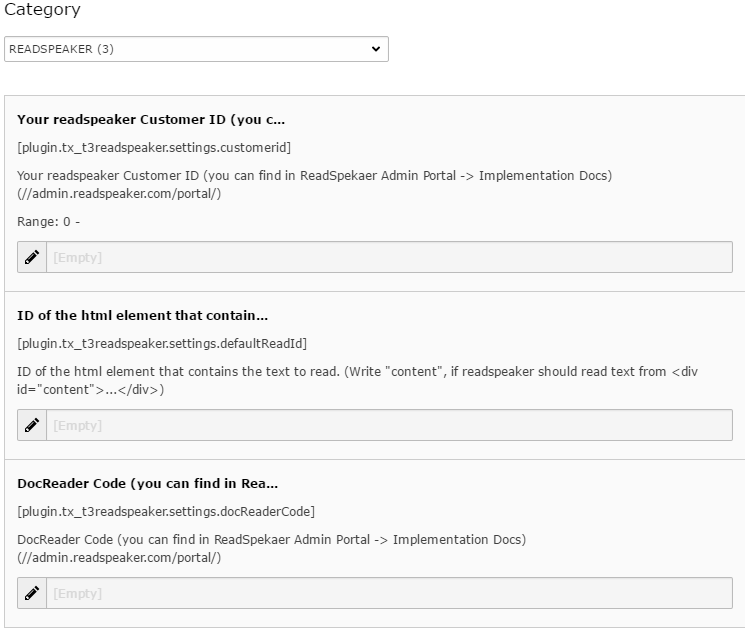
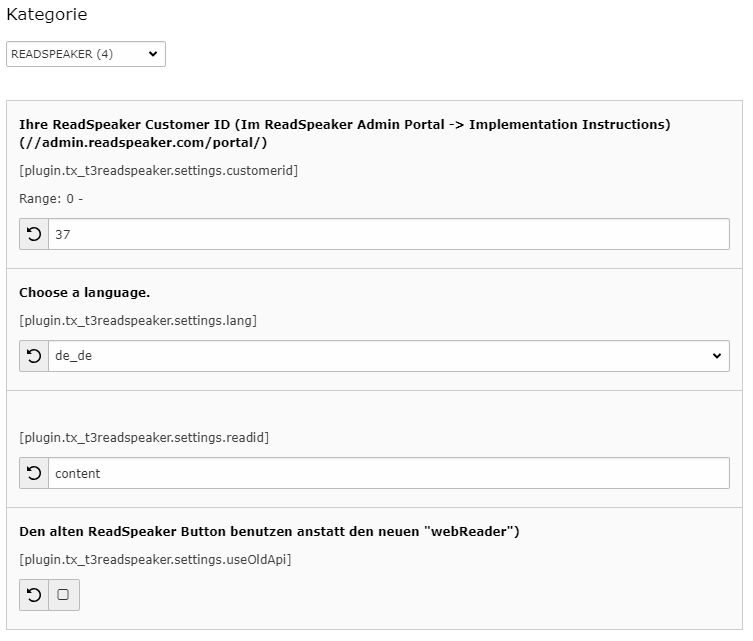
[VERSION] 2.1.0 - Updated README.md and Documentation + Updated Screenshots

diff --git a/ext_emconf.php b/ext_emconf.php
@@ -20,7 +20,7 @@ $EM_CONF[$_EXTKEY] = [
   'uploadfolder' => false,
   'createDirs' => '',
   'clearCacheOnLoad' => 1,
-  'version' => '2.0.0',
+  'version' => '2.1.0',
   'constraints' => 
   [
     'depends' => 

diff --git a/README.md b/README.md
@@ -7,37 +7,33 @@ Will add the **ReadSpeaker webReader** Service to your website. Easy to use, mul
 
 [![Readspeaker webReader](http://img-ak.verticalresponse.com/media/f/3/a/f3a027ab0e/32430ba437/59fd45a3d7/library/ReadSpeaker-webReader-video-screenshot.jpg)](https://www.youtube.com/watch?v=zMtpLuOJ3m8)
 
-(Open the link in a new window if you have problems with watching the youtube video.)
+(Open the link in a new window if you have problems with watching the youtube video. https://www.youtube.com/watch?v=zMtpLuOJ3m8)
 
 
 ## Installation
 
 1.  Install this extension
 2.  Set your customer ID and CSS ID and your language in the CONSTANT EDITOR
-3.  Add this code, where the readspeaker button should appear:
+3.  Add this html code to an fluid template, where the ReadSpeaker webReader button should appear:
 
     ```html
-    <f:cObject typoscriptObjectPath="lib.t3readspeaker" />
+	<f:cObject typoscriptObjectPath="lib.t3readspeaker" data="{lang:'de_de',readid:'content123',urlencoded:'...'}" />
     ```
 
+All data-attributes are optional! The fallback are the values from the constant editor! If you leave emtpy "urlencoded", the used url will the frontend url of the current page!
 
-**TIP**
 
-Try the fluid inline style:
+**TIP** - Try the fluid inline style:
 
 ```html
 {f:cObject(typoscriptObjectPath:'lib.t3readspeaker')}
 ```
 
-**Another TIP**
+## Plugin
 
-You can modify the button behaviour by adding some data attribute information to te fluid tag:
+We offer an extra content element made with EXT:flux to place your ReadSpeaker webReader button where you want. If you want to use it in your contentElementWizard, make sure you have EXT:flux installed!
 
-```html
-<f:cObject typoscriptObjectPath="lib.t3readspeaker" data="{lang:'de_de',readid:'content123',urlencoded:''}" />
-```
-
-**We're open for contributions.**
+### We're open for contribution.
 
 - https://typo3.org/extensions/repository/view/t3readspeaker
 - https://forge.typo3.org/projects/extension-t3readspeaker

diff --git a/Documentation/Introduction/Index.rst b/Documentation/Introduction/Index.rst
@@ -43,7 +43,7 @@ Fluid usage
 Frontend reading
 
 .. figure:: ../Images/rsreading.png
-   :width: 689px
+   :width: 668px
    :alt: ReadSpeaker reading text
 
    ReadSpeaker reading text
@@ -51,7 +51,7 @@ Frontend reading
 Frontend closed
 
 .. figure:: ../Images/rsclosed.png
-   :width: 500px
+   :width: 159px
    :alt: ReadSpeaker Button
 
    ReadSpeaker Button
@@ -62,9 +62,11 @@ Frontend closed
 Installation
 ------------
 
-#. Install this extension
-#. Set your rs customer ID and CSS ID and your language in the CONSTANT EDITOR
-#. Add this code, where the readspeaker button should appear: <f:cObject typoscriptObjectPath="lib.t3readspeaker" />
+#.  Install this extension
+#.  Set your customer ID and CSS ID and your language in the CONSTANT EDITOR
+#.  Add this html code to an fluid template, where the ReadSpeaker webReader button should appear: <f:cObject typoscriptObjectPath="lib.t3readspeaker" data="{lang:'de_de',readid:'content123',urlencoded:'...'}" />
+
+All data-attributes are optional! The fallback are the values from the constant editor! If you leave emtpy "urlencoded", the used url will the frontend url of the current page!
 
 
 .. tip::
@@ -72,18 +74,13 @@ Installation
    Try the fluid inline style: {f:cObject(typoscriptObjectPath:'lib.t3readspeaker')}
 
 
-.. tip::
-
-   You can modify the button behaviour by adding some data attribute information to te fluid tag: <f:cObject typoscriptObjectPath="lib.t3readspeaker" data="{lang:'de_de',readid:'content123',urlencoded:''}" />
-
-
 Constant Editor
 
 .. figure:: ../Images/constants.png
-   :width: 500px
-   :alt: Constant Editor -> ReadSpeaker
+   :width: 753px
+   :alt: Constant Editor -> TYPO3 ReadSpeaker
 
    ReadSpeaker Settings
 
-   Set your "customer id", your "docreader id" and the "css read id"
+   Set your "customerid", your "readid" and "language" in the constant editor.
 
